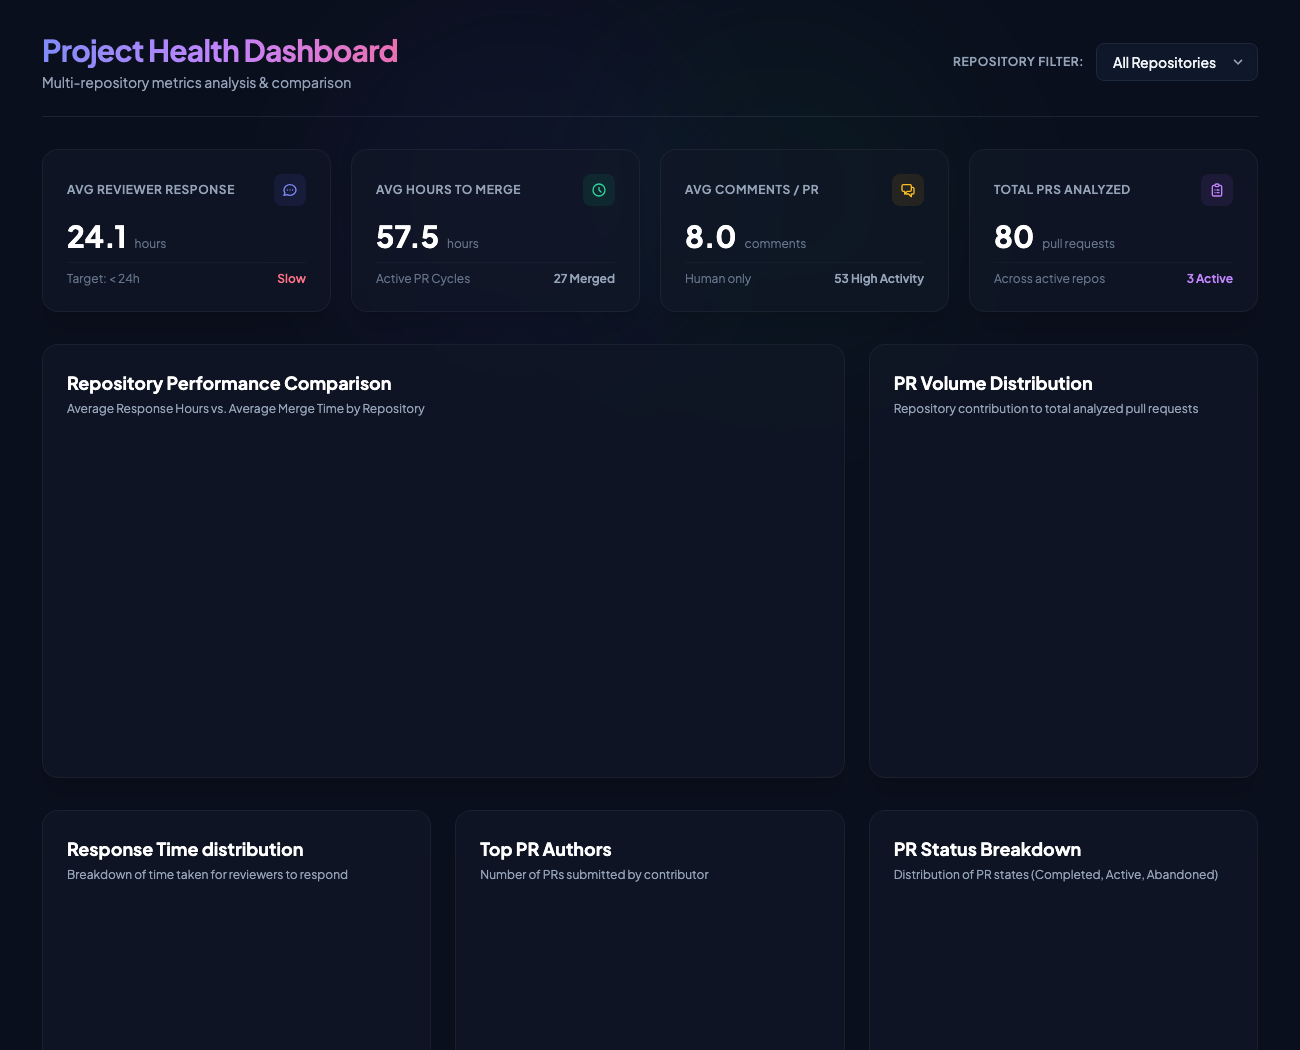
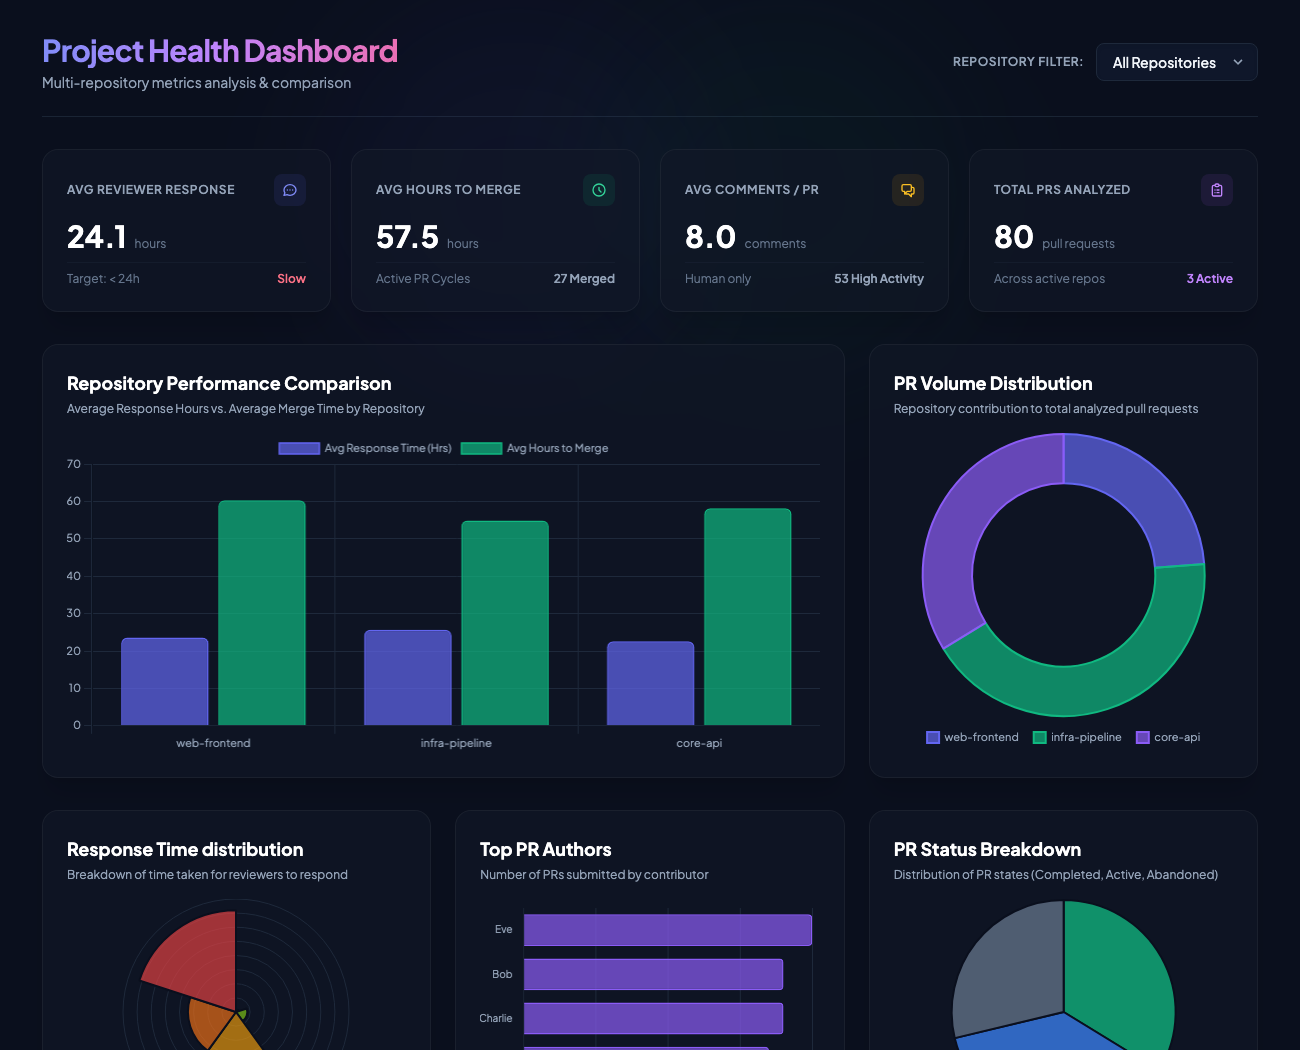
fix: disable chart animations in screenshot capturing to prevent partially blank states

diff --git a/screenshot.js b/screenshot.js
@@ -2,11 +2,25 @@ const { chromium } = require('playwright');
 const fs = require('fs');
 
 (async () => {
+  console.log("Launching headless browser...");
   const browser = await chromium.launch();
   const page = await browser.newPage();
+  
+  // Capture page logs for debugging
+  page.on('console', msg => console.log('BROWSER LOG:', msg.text()));
+  page.on('pageerror', err => console.error('BROWSER PAGE ERROR:', err.message));
+
   await page.setViewportSize({ width: 1300, height: 1050 });
-  await page.goto('http://localhost:8080/dashboard/index.html');
-  await page.waitForTimeout(3500); // Wait for Chart.js animations to complete
+  
+  console.log("Navigating to dashboard with disabled animations...");
+  await page.goto('http://localhost:8080/dashboard/index.html?animate=false', { 
+    waitUntil: 'networkidle' 
+  });
+  
+  // Extra wait to guarantee PapaParse has finished parsing and DOM has updated
+  await page.waitForTimeout(2000); 
+  
+  console.log("Capturing screenshot...");
   await page.screenshot({ path: 'dashboard.png' });
   
   // Also copy to docs/dashboard.png

diff --git a/dashboard/index.html b/dashboard/index.html
@@ -267,6 +267,12 @@
     </div>
 
     <script>
+        // Check for URL parameter to disable animations (useful for automated screenshots)
+        const urlParams = new URLSearchParams(window.location.search);
+        if (urlParams.get('animate') === 'false') {
+            Chart.defaults.animation = false;
+        }
+
         // Global variables to hold parsed data and active charts
         let rawData = [];
         let activeRepo = "ALL";
